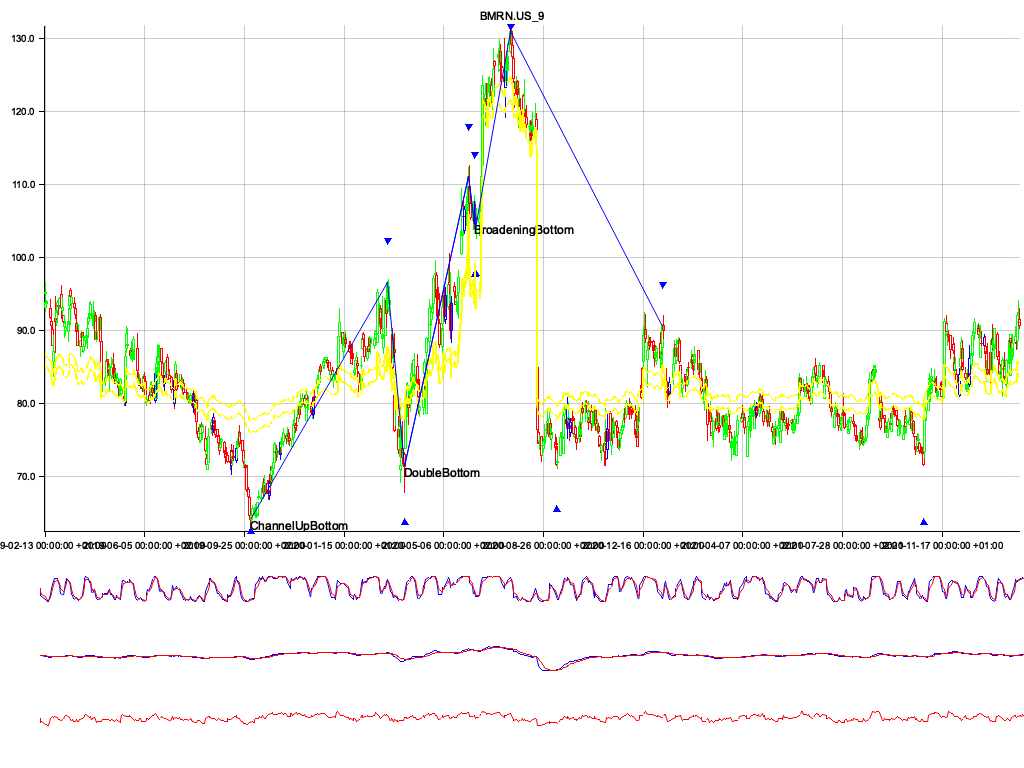
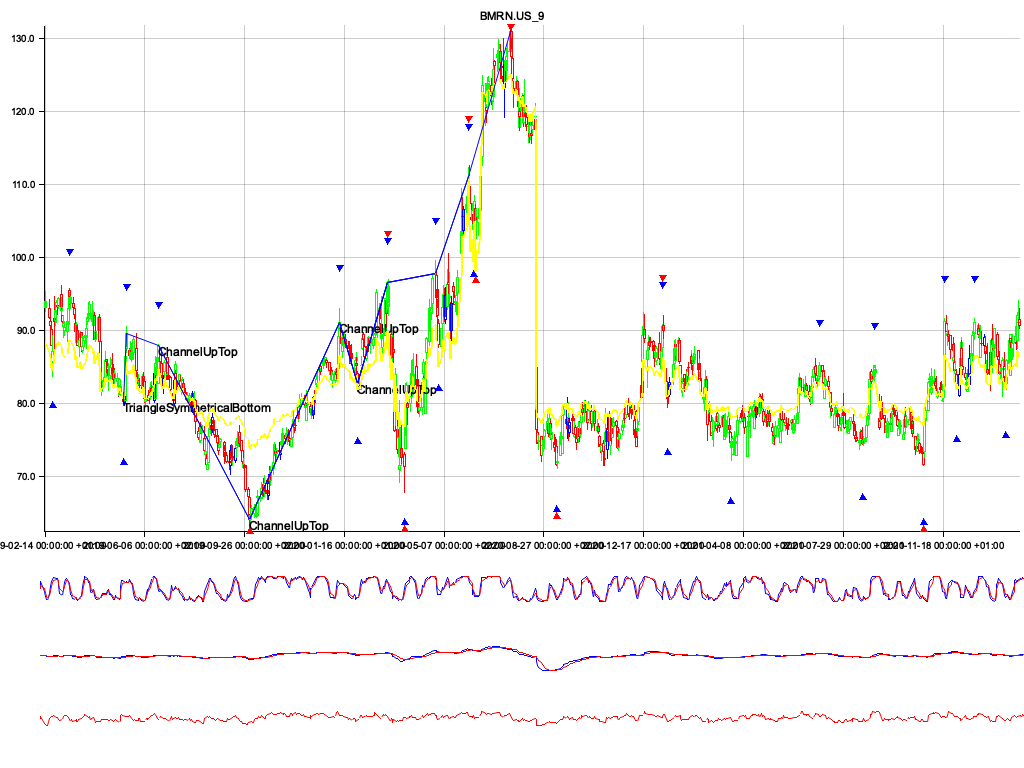
refactor: improve local and extrema calculation

diff --git a/src/patterns/peaks.rs b/src/patterns/peaks.rs
@@ -70,55 +70,78 @@ impl Peaks {
     }
 
     pub fn calculate_peaks(&mut self, max_price: &f64) -> Result<()> {
-        let local_prominence = env::var("LOCAL_PROMINENCE")
+        let local_prominence = env::var("LOCAL_MIN_PROMINENCE")
+            .unwrap()
+            .parse::<f64>()
+            .unwrap();
+        let extrema_prominence = env::var("EXTREMA_MIN_PROMINENCE")
+            .unwrap()
+            .parse::<f64>()
+            .unwrap();
+        let local_distance = env::var("PROMINENCE_MIN_DISTANCE")
+            .unwrap()
+            .parse::<usize>()
+            .unwrap();
+        let mut kernel_bandwidth = env::var("KERNEL_BANDWIDTH")
             .unwrap()
             .parse::<f64>()
             .unwrap();
 
-        let kernel_bandwidth = env::var("KERNEL_BANDWIDTH")
-            .unwrap()
-            .parse::<f64>()
-            .unwrap();
-
-        let local_prominence: f64 = max_price / local_prominence;
-
-        let mut smooth_highs: Vec<f64> = vec![];
-        let mut smooth_lows: Vec<f64> = vec![];
+        //local_prominence = max_price * local_prominence;
+        kernel_bandwidth = max_price * kernel_bandwidth;
+        // let mut smooth_highs: Vec<f64> = vec![];
+        // let mut smooth_lows: Vec<f64> = vec![];
         let mut smooth_close: Vec<f64> = vec![];
 
         let mut candle_id = 0;
         for x in &self.close {
-            let smoothed_high = kernel_regression(kernel_bandwidth, *x, &self.highs);
-            let smoothed_low = kernel_regression(kernel_bandwidth, *x, &self.lows);
+            // let smoothed_high = kernel_regression(kernel_bandwidth, *x, &self.highs);
+            // let smoothed_low = kernel_regression(kernel_bandwidth, *x, &self.lows);
             let smoothed_close = kernel_regression(kernel_bandwidth, *x, &self.close);
 
-            smooth_highs.push(smoothed_high.abs());
-            smooth_lows.push(smoothed_low.abs());
+            // smooth_highs.push(smoothed_high.abs());
+            // smooth_lows.push(smoothed_low.abs());
             smooth_close.push(smoothed_close.abs());
 
-            self.smooth_highs.push((candle_id, smoothed_high.abs()));
-            self.smooth_lows.push((candle_id, smoothed_low.abs()));
+            // self.smooth_highs.push((candle_id, smoothed_high.abs()));
+            // self.smooth_lows.push((candle_id, smoothed_low.abs()));
             self.smooth_close.push((candle_id, smoothed_close.abs()));
             candle_id += 1;
         }
 
-        let mut local_maxima_fp = PeakFinder::new(&smooth_close);
-        local_maxima_fp.with_min_prominence(local_prominence);
+        let minima_smooth: Vec<f64> = smooth_close.iter().map(|x| -x).collect();
 
-        let mut x_values: Vec<f64> = vec![];
-        let mut y_values: Vec<f64> = vec![];
-        for x in local_maxima_fp.find_peaks() {
-            let candle_id = x.middle_position();
-            let price = self.close[candle_id];
-            x_values.push(candle_id as f64);
-            y_values.push(price);
+        self.local_maxima =
+            self.maxima_minima(&smooth_close, local_prominence, local_distance, max_price)?;
 
-            self.local_maxima.push((candle_id, price.abs()));
-        }
+        self.local_minima =
+            self.maxima_minima(&minima_smooth, local_prominence, local_distance, max_price)?;
 
-        let leches: Vec<f64> = smooth_close.iter().map(|x| -x).collect();
-        let mut local_minima_fp = PeakFinder::new(&leches);
-        local_minima_fp.with_min_prominence(local_prominence);
+        self.extrema_maxima =
+            self.maxima_minima(&smooth_close, extrema_prominence, local_distance, max_price)?;
+
+        self.extrema_minima = self.maxima_minima(
+            &minima_smooth,
+            extrema_prominence,
+            local_distance,
+            max_price,
+        )?;
+
+        Ok(())
+    }
+
+    fn maxima_minima(
+        &self,
+        data: &Vec<f64>,
+        min_prominence: f64,
+        min_distance: usize,
+        max_price: &f64,
+    ) -> Result<Vec<(usize, f64)>> {
+        let prominence = max_price * min_prominence;
+        let mut result: Vec<(usize, f64)> = vec![];
+        let mut local_minima_fp = PeakFinder::new(&data);
+        local_minima_fp.with_min_prominence(prominence);
+        local_minima_fp.with_min_distance(min_distance);
 
         let mut x_values: Vec<f64> = vec![];
         let mut y_values: Vec<f64> = vec![];
@@ -127,9 +150,9 @@ impl Peaks {
             let price = self.close[candle_id];
             x_values.push(candle_id as f64);
             y_values.push(price);
-            self.local_minima.push((candle_id, price.abs()));
+            result.push((candle_id, price.abs()));
         }
 
-        Ok(())
+        Ok(result)
     }
 }

diff --git a/src/backend.rs b/src/backend.rs
@@ -33,6 +33,8 @@ impl Backend {
         let data = instrument.data();
         let local_maxima = instrument.peaks().local_maxima();
         let local_minima = instrument.peaks().local_minima();
+        let extrema_maxima = instrument.peaks().extrema_maxima();
+        let extrema_minima = instrument.peaks().extrema_minima();
         let horizontal_levels = instrument.horizontal_levels().horizontal_levels();
         let patterns = instrument.patterns();
         //let upper_channel = instrument.patterns().upper_channel();
@@ -126,6 +128,8 @@ impl Backend {
                 .unwrap();
         }
 
+        // LOCAL MAXIMA MINIMA
+
         chart
             .draw_series(data.iter().enumerate().map(|(i, candle)| {
                 if local_maxima.contains(&(i, candle.close())) {
@@ -160,27 +164,79 @@ impl Backend {
             }))
             .unwrap();
 
-        for x in instrument.peaks().smooth_highs().iter() {
-            chart
-                .draw_series(LineSeries::new(
-                    (0..)
-                        .zip(instrument.peaks().smooth_highs().iter())
-                        .map(|(_k, highs)| {
-                            let idx = highs.0;
-                            let value = highs.1;
-                            let date = data[idx].date();
-                            (date, value)
-                        }),
-                    &YELLOW,
-                ))
-                .unwrap();
-        }
+        // EXTREMA MAXIMA MINIMA
 
-        for x in instrument.peaks().smooth_lows().iter() {
+        chart
+            .draw_series(data.iter().enumerate().map(|(i, candle)| {
+                if extrema_maxima.contains(&(i, candle.close())) {
+                    return TriangleMarker::new(
+                        (
+                            candle.date(),
+                            candle.high() + candle.close() / peaks_marker_distance + 6.,
+                        ),
+                        -4,
+                        RED.filled(),
+                    );
+                } else {
+                    return TriangleMarker::new((candle.date(), candle.close()), 0, &TRANSPARENT);
+                }
+            }))
+            .unwrap();
+
+        chart
+            .draw_series(data.iter().enumerate().map(|(i, candle)| {
+                if extrema_minima.contains(&(i, candle.close())) {
+                    return TriangleMarker::new(
+                        (
+                            candle.date(),
+                            candle.high() + candle.high() / peaks_marker_distance - 11.,
+                        ),
+                        4,
+                        RED.filled(),
+                    );
+                } else {
+                    return TriangleMarker::new((candle.date(), candle.high()), 0, &TRANSPARENT);
+                }
+            }))
+            .unwrap();
+
+        // for x in instrument.peaks().smooth_highs().iter() {
+        //     chart
+        //         .draw_series(LineSeries::new(
+        //             (0..)
+        //                 .zip(instrument.peaks().smooth_highs().iter())
+        //                 .map(|(_k, highs)| {
+        //                     let idx = highs.0;
+        //                     let value = highs.1;
+        //                     let date = data[idx].date();
+        //                     (date, value)
+        //                 }),
+        //             &YELLOW,
+        //         ))
+        //         .unwrap();
+        // }
+
+        // for x in instrument.peaks().smooth_lows().iter() {
+        //     chart
+        //         .draw_series(LineSeries::new(
+        //             (0..)
+        //                 .zip(instrument.peaks().smooth_lows().iter())
+        //                 .map(|(_k, highs)| {
+        //                     let idx = highs.0;
+        //                     let value = highs.1;
+        //                     let date = data[idx].date();
+        //                     (date, value)
+        //                 }),
+        //             &YELLOW,
+        //         ))
+        //         .unwrap();
+        // }
+
+        for x in instrument.peaks().smooth_close().iter() {
             chart
                 .draw_series(LineSeries::new(
                     (0..)
-                        .zip(instrument.peaks().smooth_lows().iter())
+                        .zip(instrument.peaks().smooth_close().iter())
                         .map(|(_k, highs)| {
                             let idx = highs.0;
                             let value = highs.1;

diff --git a/src/main.rs b/src/main.rs
@@ -1,5 +1,6 @@
 use crate::error::Result;
 use broker::xtb::*;
+use broker::Symbol;
 use helpers::date;
 use helpers::date::Local;
 use indicators::Indicator;
@@ -21,10 +22,10 @@ mod patterns;
 mod screener;
 
 /*
-TODO
-- Fix relative local minima
+TODO LIST
+- FIX pattern calculation for local and extrema
 - Fix stoch
-- Fix candle calculation
+- Fix candle calculation (improve patterns with 3)
 - Add gap identification
 - Add EMAS to indicators
 - Fix horizontal levels
@@ -46,8 +47,36 @@ async fn main() -> Result<()> {
 
     let mut screener = Screener::<Xtb>::new().await?;
     screener.login(username, password).await?;
-    let symbols = screener.get_symbols().await.unwrap();
-    for s in symbols.symbols {
+    //let symbols = screener.get_symbols().await.unwrap().symbols;
+
+    let symbols = [
+        Symbol {
+            symbol: "TGNA.US_9".to_owned(),
+            category: "".to_owned(),
+            description: "".to_owned(),
+            currency: "".to_owned(),
+        },
+        Symbol {
+            symbol: "BMRN.US_9".to_owned(),
+            category: "".to_owned(),
+            description: "".to_owned(),
+            currency: "".to_owned(),
+        },
+        Symbol {
+            symbol: "SIRI.US_9".to_owned(),
+            category: "".to_owned(),
+            description: "".to_owned(),
+            currency: "".to_owned(),
+        },
+        Symbol {
+            symbol: "GOOGL.US_9".to_owned(),
+            category: "".to_owned(),
+            description: "".to_owned(),
+            currency: "".to_owned(),
+        },
+    ];
+
+    for s in symbols {
         screener
             .get_instrument_data(
                 &s.symbol,

diff --git a/src/patterns/pattern.rs b/src/patterns/pattern.rs
@@ -79,7 +79,6 @@ impl Patterns {
             } else {
                 min = minima_length
             }
-            println!("144444444 {:?} {:?}", maxima_length, max_points);
 
             // if maxima_length < max_points {
             //     start = maxima_length
@@ -87,7 +86,7 @@ impl Patterns {
             //     start = maxima_length - max_points;
             // }
             // CONTINUE HERE SHOULD START max points from the end
-            println!("444444 {:?}", [&maxima[start..max]].concat());
+            //println!("444444 {:?}", [&maxima[start..max]].concat());
             //let mut locals = [maxima.clone(), minima.clone()].concat();
             // let mut locals = [maxima.clone(), minima.clone()].concat();
             let mut locals = [&maxima[0..max], &minima[0..min]].concat();
@@ -100,7 +99,6 @@ impl Patterns {
                 match iter.next() {
                     Some(window) => {
                         let data_points = window.to_vec();
-                        println!("33333 {:?}", data_points);
                         if triangle::is_ascendant_top(&data_points, current_price) {
                             self.set_pattern(&data_points, PatternType::TriangleAscendantTop);
                             //no_pattern = false;
